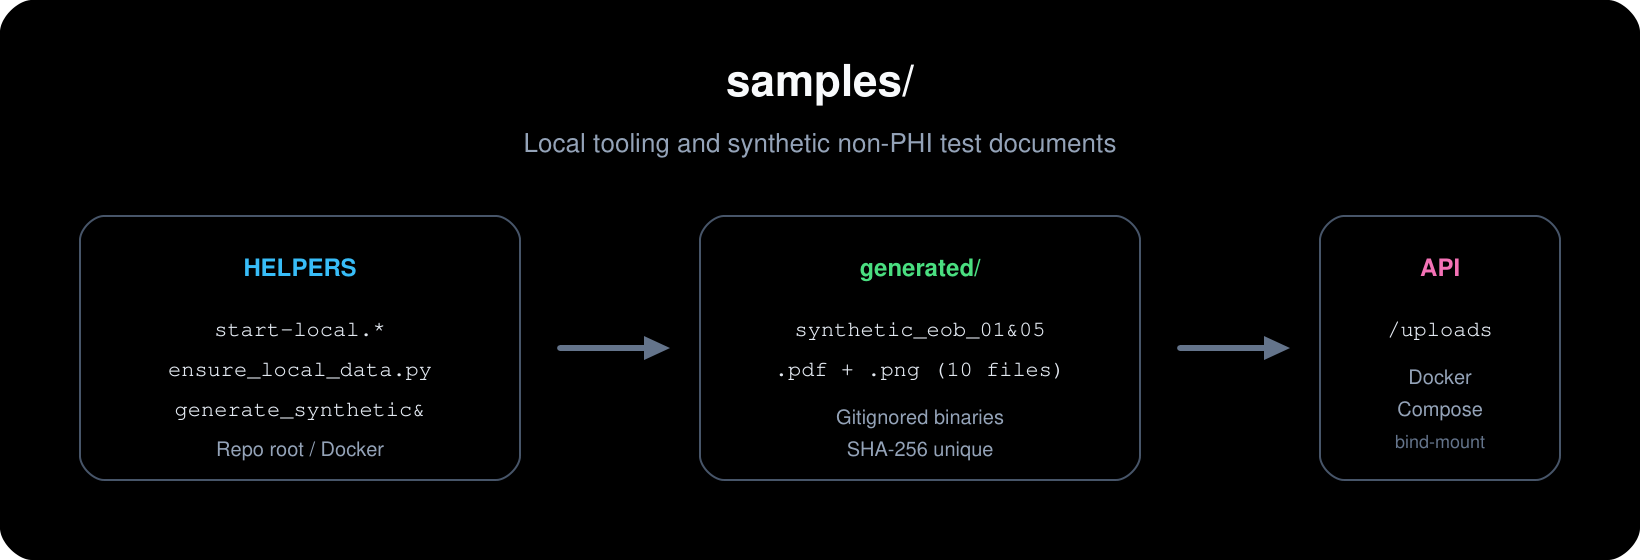
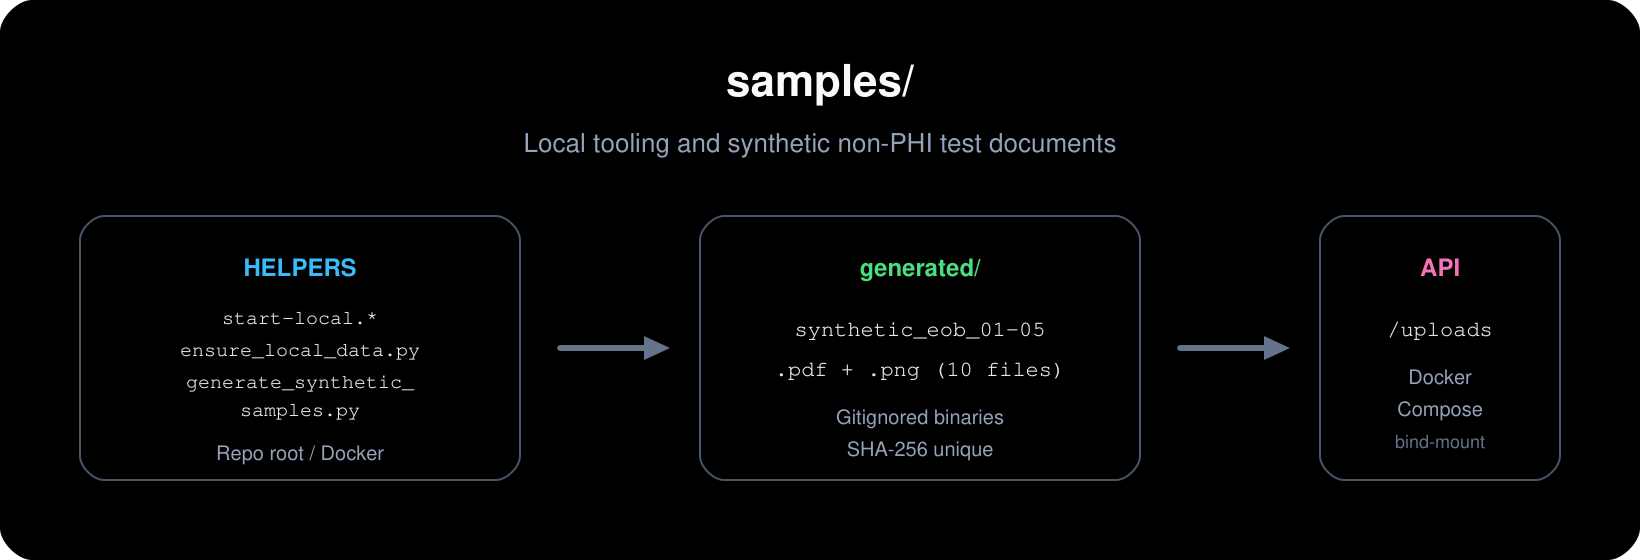
fix(samples): repair SVG XML; simplify README hero
- Escape invalid bare ampersands in samples-hub.svg (split generator label, 01–05 range)

- Regenerate samples-hub.png via render_readme_assets.py

- Remove div wrapper so Markdown image previews resolve in Cursor/VS Code

Made-with: Cursor

Changed region(s): [[0.0933, 0.5464, 0.2799, 0.6982], [0.0933, 0.7286, 0.2488, 0.7589], [0.1244, 0.7893, 0.2488, 0.8196]]

diff --git a/samples/README.md b/samples/README.md
@@ -1,5 +1,3 @@
-<div align="center">
-
 # Samples
 
 **Local helpers & synthetic documents** for RCM Guardian (no real PHI).
@@ -8,13 +6,9 @@
 [![Docker volume](https://img.shields.io/badge/Docker-generated%E2%86%92_uploads-2496ED?style=flat-square&logo=docker&logoColor=white)](../docker-compose.yml)
 [![Python 3.12+](https://img.shields.io/badge/Python-3.12+-3776AB?style=flat-square&logo=python&logoColor=white)](https://www.python.org/)
 
-<br/>
+![Folder flow: samples helpers, generated/, and Docker volume to uploads](assets/samples-hub.png)
 
-![Folder flow: helpers → generated/ → Docker /uploads](./assets/samples-hub.png)
-
-*Source: [`samples-hub.svg`](./assets/samples-hub.svg). Regenerate PNGs from SVG: **`python samples/render_readme_assets.py`** (repo root).*
-
-</div>
+*Source: [`samples-hub.svg`](assets/samples-hub.svg). Regenerate PNG from SVG (repo root): `python samples/render_readme_assets.py`.*
 
 ---
 
